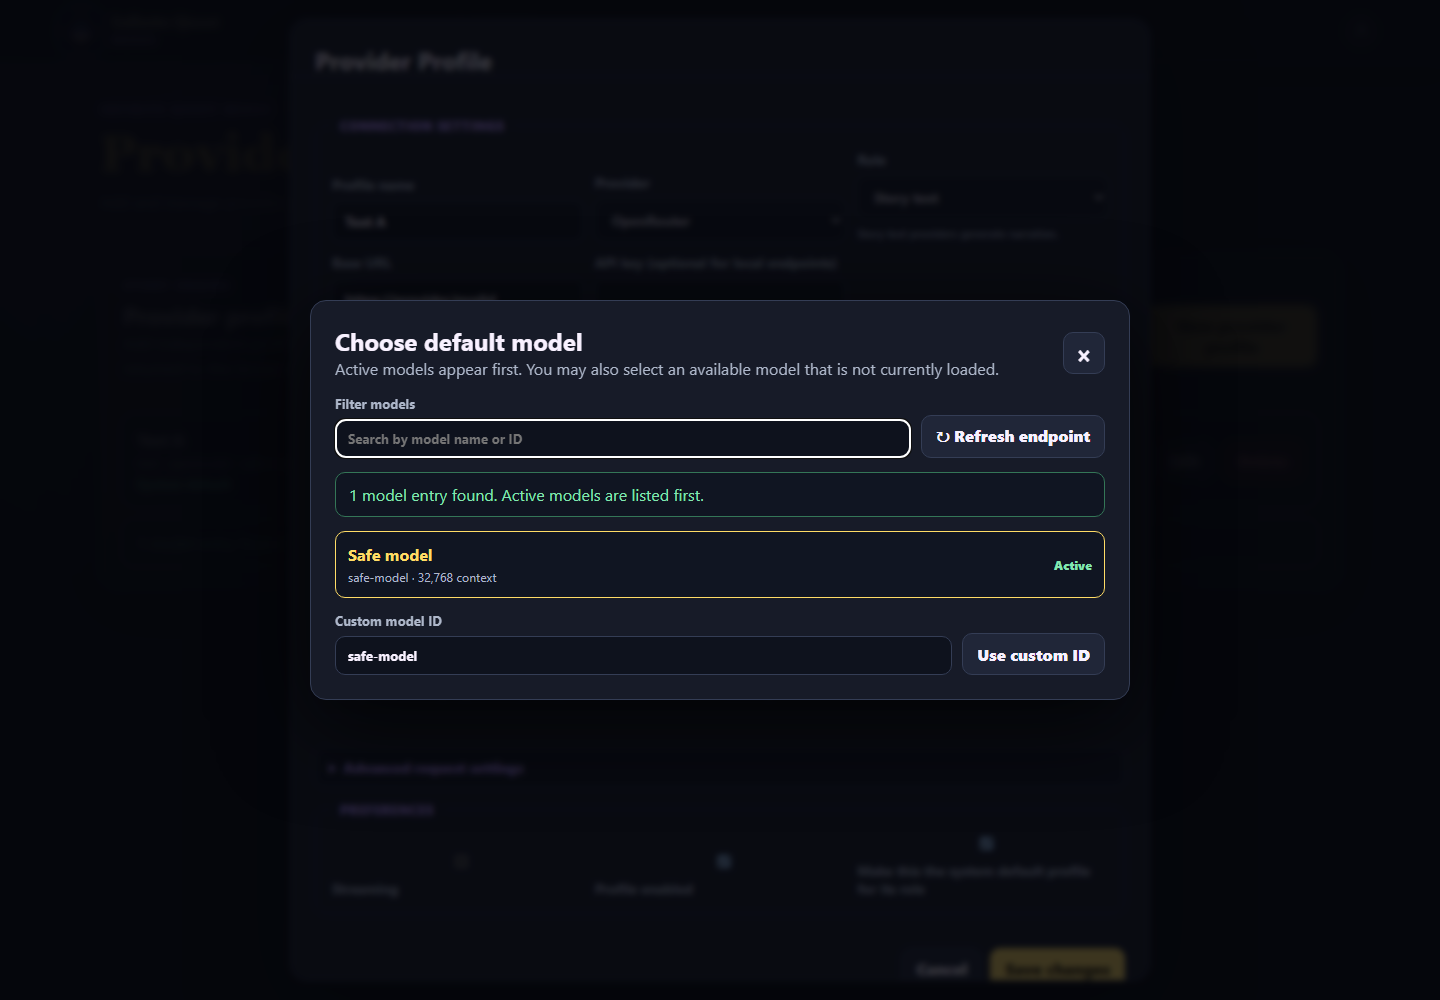
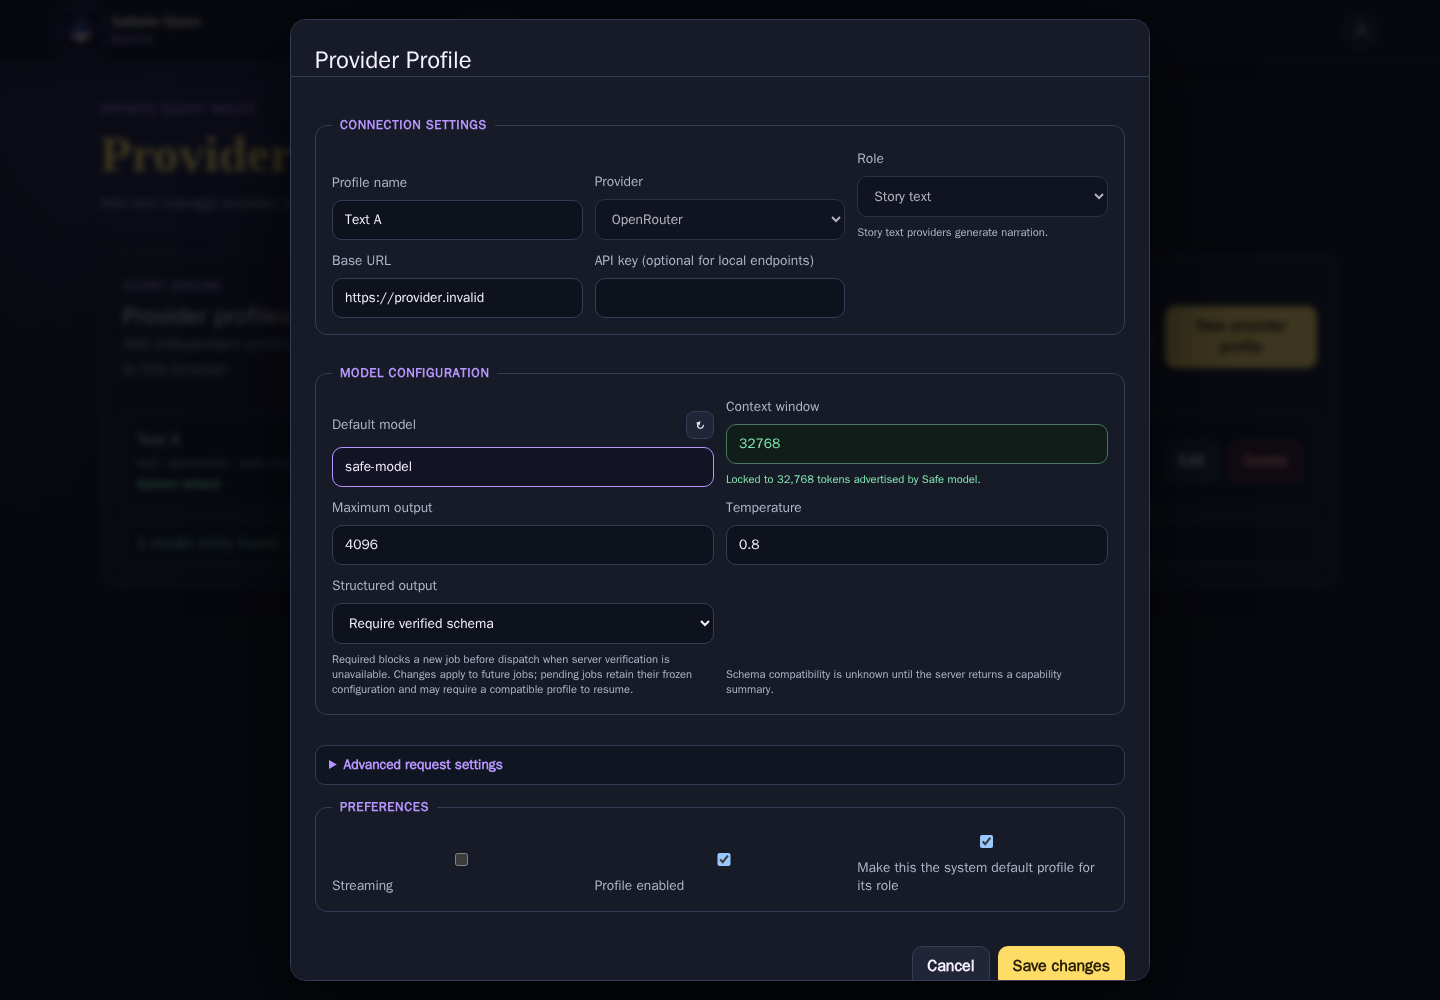
Document structured output controls verification

diff --git a/docs/review/structured-output/phase-05.md b/docs/review/structured-output/phase-05.md
@@ -1,0 +1,66 @@
+# Structured output phase 05 handoff
+
+The provider editor now offers Legacy JSON, Use schema when verified, and Require
+verified schema. Existing profiles without a policy retain their original
+configuration shape on a no-op save. Discovery supplies advisory operation
+coverage and timestamps; unsaved configuration changes, cached picker choices
+and late responses cannot create verification for a different profile.
+
+Saved generation status exposes a bounded response-format projection. Both
+Story interfaces show the saved policy, operation/mode and finite recovery
+explanation. Metadata-only status changes propagate through reconciliation.
+Keep, explicit Retry and local fact-format repair retain their existing
+server-side authority checks. Changing a profile does not rewrite a job's
+frozen selection or guarantee it can resume under the new configuration.
+
+The read-only validation report separates initial application validation from
+repairs and final acceptance. New dimensions include policy, mode, schema,
+streaming, operation and observed model/route. Missing observations remain
+unknown. Current durable data cannot establish per-invocation transport failure,
+latency or cost; the report says so and provides a separate validated job-level
+transport/timeout count. Required preflight failure is not malformed output.
+
+## Verification checkpoints
+
+- `bde35b85ab419015a434763d721af0458c185b4a`: 135/135 integration tests across
+  eight files passed against a fresh isolated PostgreSQL database. This includes
+  actual SQL projection tests and the earlier durable generation workflows.
+- `d1c6af87ab2d0f20d88c6d1868036353caf9bee1`: complete repository checks and
+  builds passed in the pinned Linux environment. Build reports its existing
+  nonfatal bundle-size warning.
+- The same candidate passed 112 paired/settings/recovery browser tests; one
+  existing Web Awesome opt-in assertion was skipped because that explicit
+  server mode was not selected. Desktop and 390x844 fixtures contain synthetic
+  content only. This is rendered fixture evidence, not live backend/provider
+  evidence.
+- The initial combined browser harness lacked Corepack and stopped before
+  tests. A guarded wrapper uses the image's existing pnpm 12.4.1; the unchanged
+  candidate then passed. No application change concealed the harness failure.
+- Root independently passed 16 focused reporting tests at `7bec5b66`. Later
+  review identified two additional metrics corrections and required explicit
+  stale-capability regression coverage; final correction evidence follows.
+
+Source review confirmed the SQL boolean-cast correction and both settings
+capability fences. The paired Story review found no recovery-authority change.
+Root screenshot review found desktop Settings captures obscured by the model
+picker; corrected captures must show the actual controls before this phase is
+accepted.
+
+No paid model calls, production queries, deployment, push or main integration
+were performed. Phase 06 remains responsible for the offline compatibility
+probe, complete release checks and final independent reviews.
+
+Final correction candidate: `6ab6247f33ed637899a2be89577b142df21504b4`.
+Root independently passed 17/17 focused reporting tests and the full TypeScript
+check. Its immutable browser suite passed **113 tests with one existing opt-in
+skip**, exit 0. The added scenario proves both saved-profile refresh and cached
+model selection remain unknown after capability-relevant edits. Required
+unsupported-adapter failures now count as preflight failures, and job-level
+transport/timeout counts require a validated diagnostic. Scoped independent
+rereview found both reporting findings addressed and no new fix breakage.
+
+The two final desktop Settings screenshots were copied from that exact immutable
+browser run and visually inspected. Current UI console collection excludes a
+generic fixture 404 message; assertions still fail on other console/page errors.
+This limits what the console check proves and does not imply live asset-server
+verification. All primary interactions and rendered controls passed.

diff --git a/docs/installation/provider-configuration.md b/docs/installation/provider-configuration.md
@@ -44,6 +44,32 @@ compatible configuration to resume; discard and explicitly re-enqueue it when
 appropriate. Do not assume that a policy toggle guarantees a pending job will
 continue.
 
+### Operator verification records
+
+Model discovery is advisory. Its process-local cache expires after 24 hours;
+**Refresh endpoint** requests fresh discovery. Saving or editing a form cannot
+create verified schema support. Unsaved configuration changes leave capability
+status unknown until compatible server evidence is available.
+
+Runtime roles load an operator-reviewed JSON array from the optional
+`TEXT_SCHEMA_VERIFICATION_FILE` environment setting at startup. With no setting,
+there are no verified routes. Mount the same reviewed, read-only file into every
+API and worker role and restart those roles to reload it; compare their registry
+digests before enabling Required. A malformed configured file fails startup
+with a safe configuration error. The file is limited to 1 MiB and 1,000 records.
+
+Records bind the concrete model, hashed endpoint and routing configuration,
+operation, schema hash, adapter protocol and streaming mode. They carry canonical
+UTC verification/expiry timestamps and expire within at most 30 days. OpenRouter
+records pin provider routing slugs; Story additionally requires evidence that
+native arbitrary nested tracker objects survive unchanged. Advertisements and
+mutable preset aliases cannot supply this proof. The planned compatibility
+probe produces proposed records for review; it never installs them automatically.
+Keep API credentials in their existing secret configuration, outside this file.
+
+For outcome comparisons and the existing repair workflow, see
+[Turn validation reporting](../runbooks/turn-validation.md) and
+[Generation validation and recovery](../runbooks/deployment.md).
 ## Structured response evidence limit
 
 For new Story text requests using `auto` or `required` structured responses,
